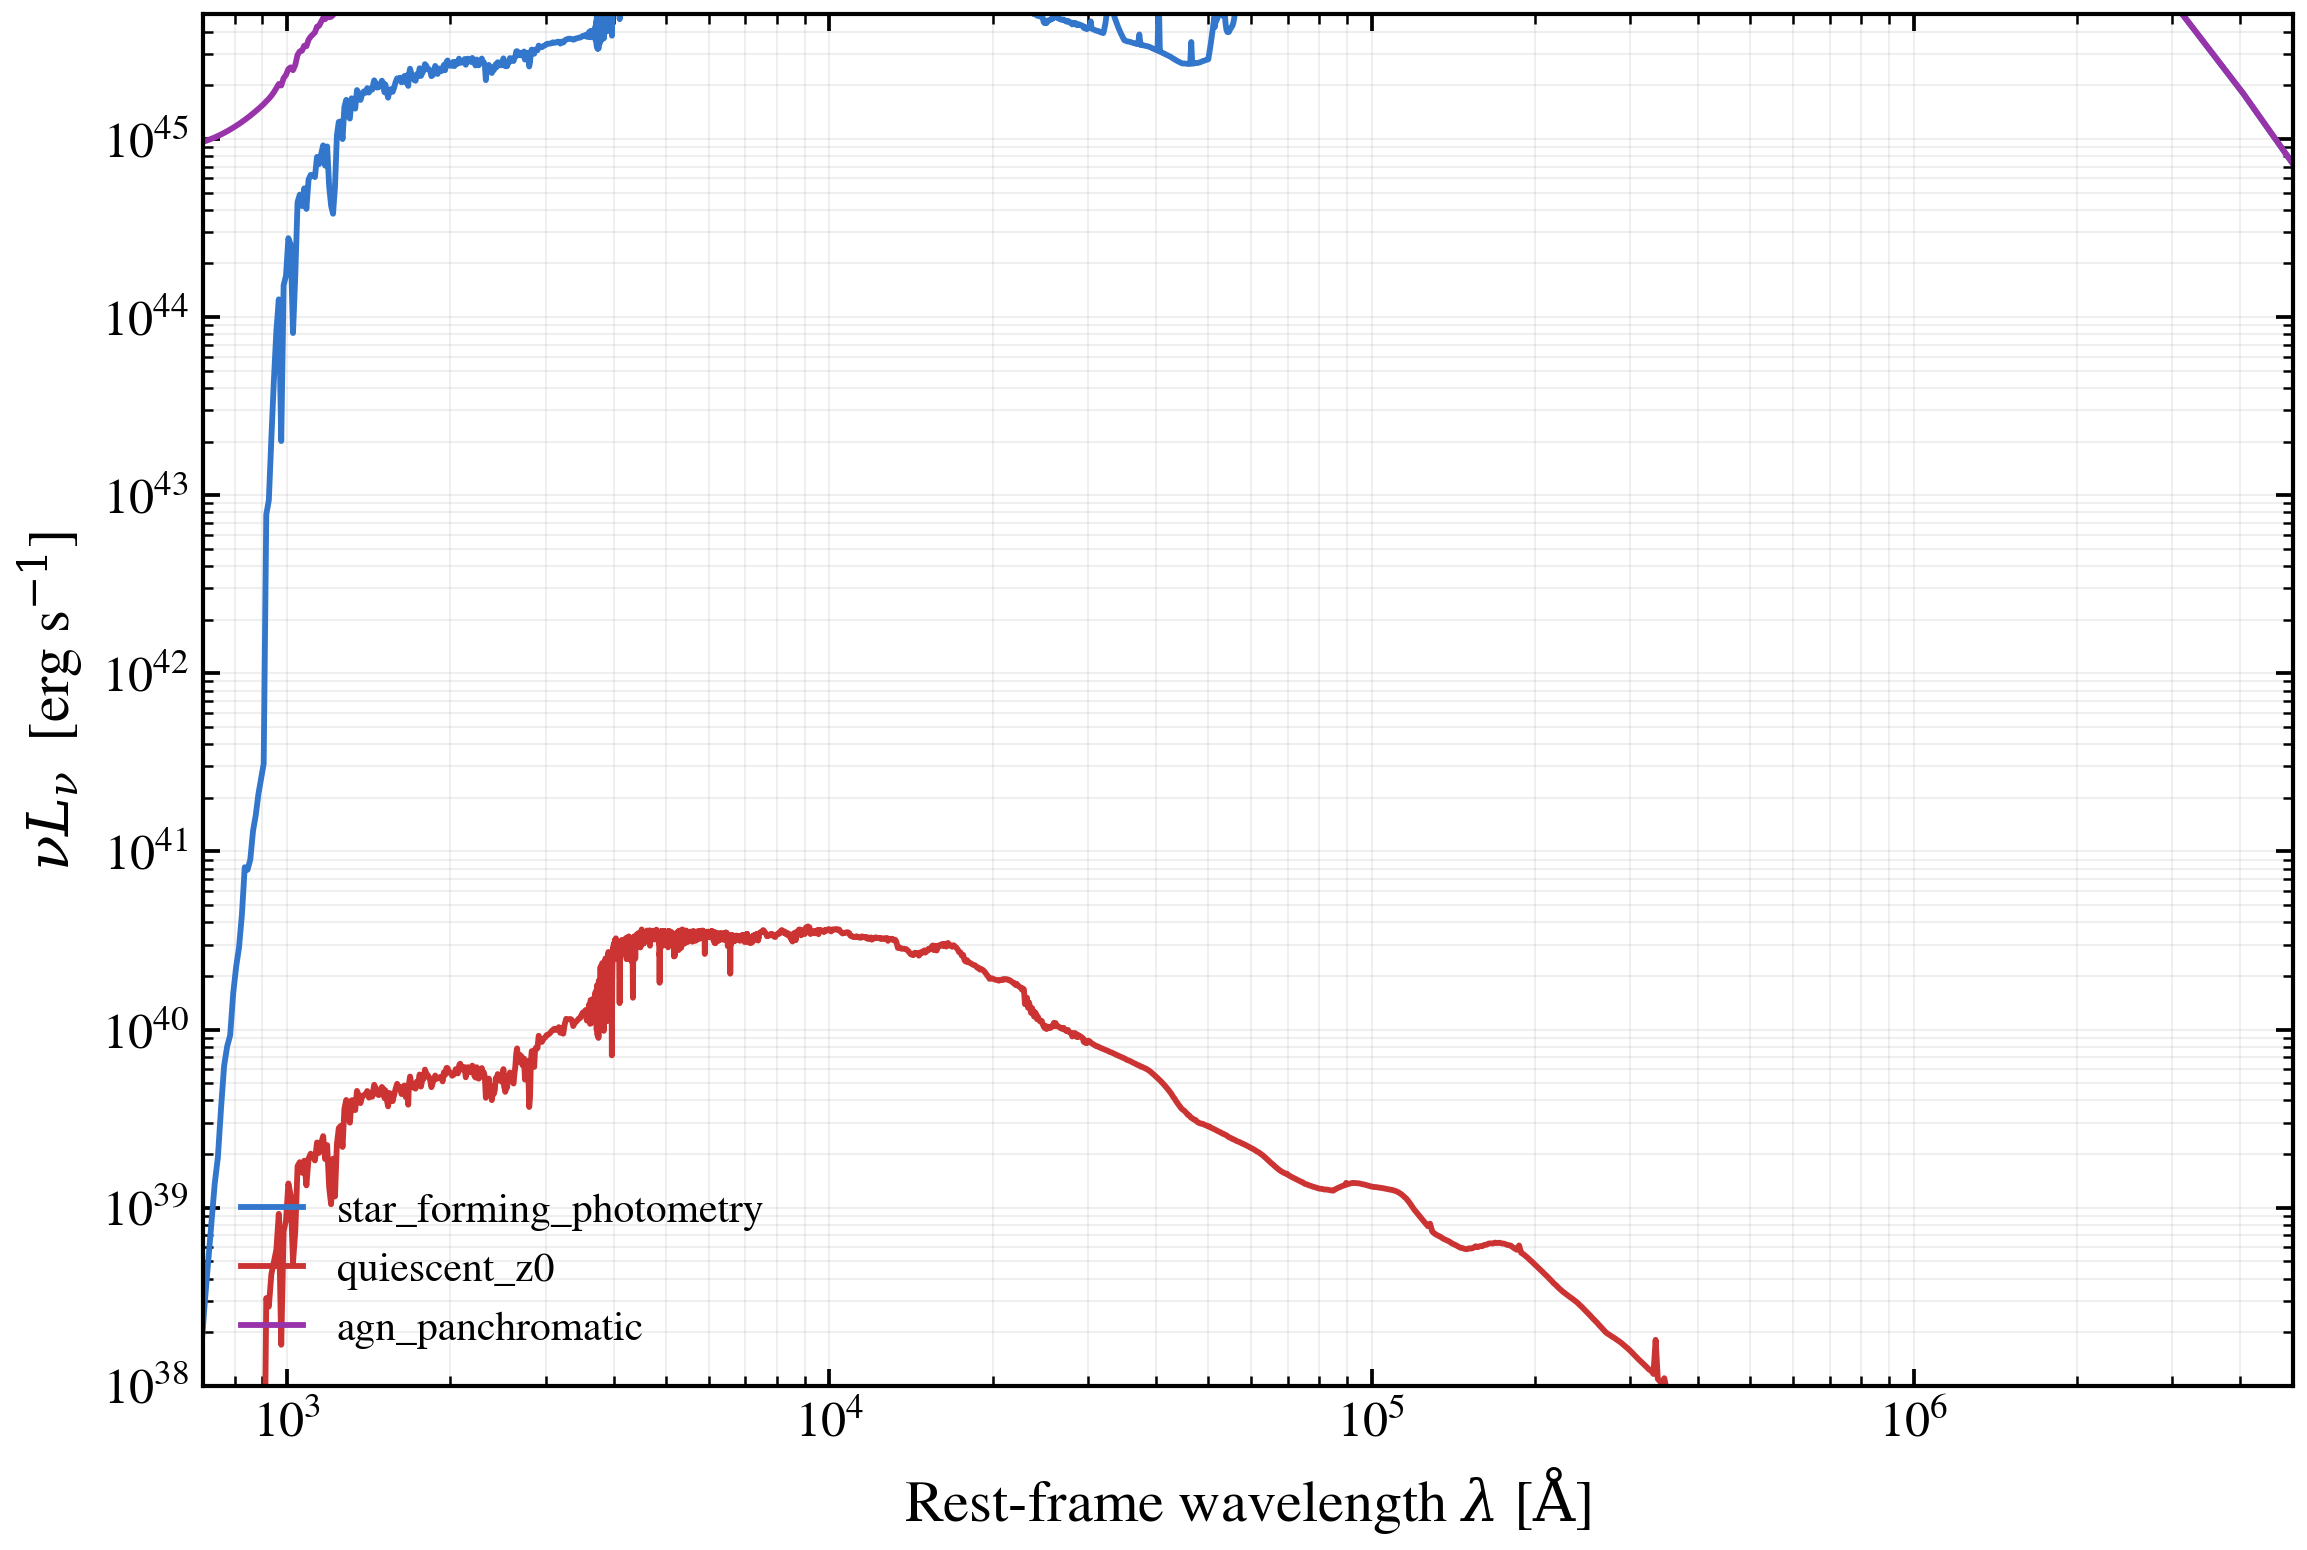
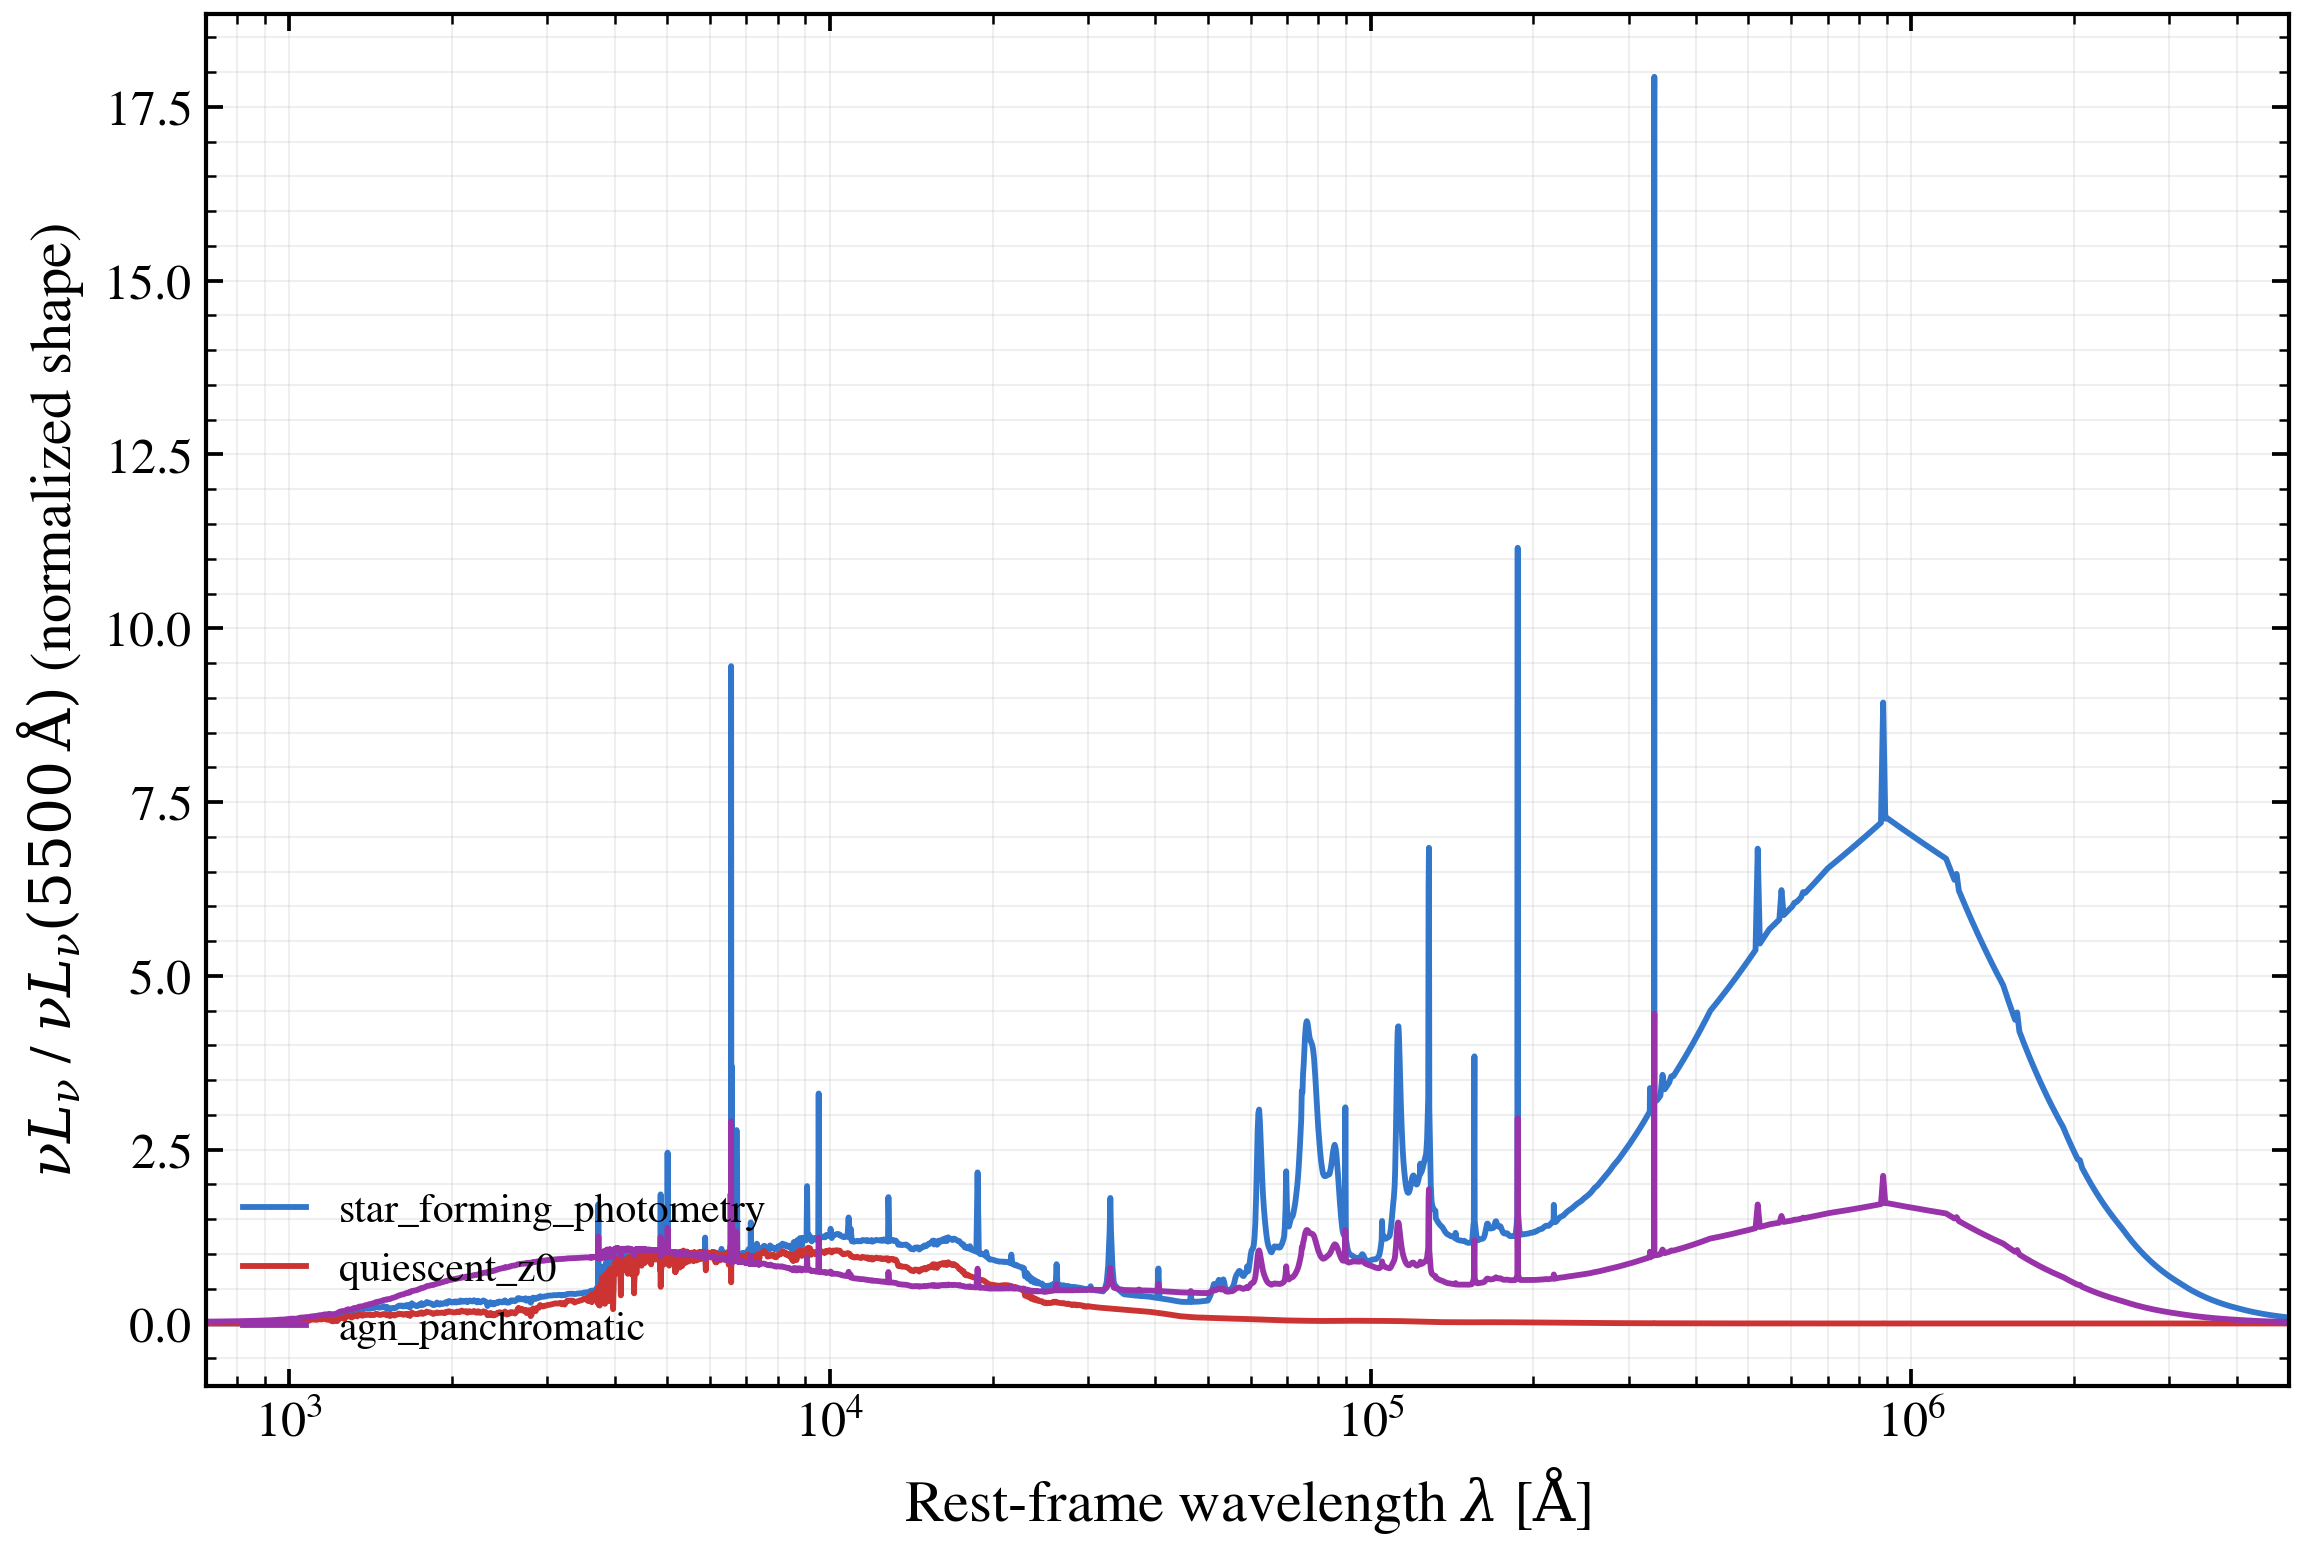
docs(examples): recipe tour compares SED shapes on a common footing — no more clipped curves
Normalized each recipe's SED to its rest-frame value at 5500 Å, allowing morphological differences to be visible without auto-scaling clipping the star-forming and AGN curves. Changed from loglog to semilogx plot to properly scale the normalized amplitude range (0–18). Y-axis label updated to reflect normalization. All three curves now fully visible and pedagogically clear: star-forming shows bright emission lines, quiescent is smooth/flat, AGN intermediate.

diff --git a/docs/auto_examples/recipes/plot_recipe_introspection_tour.py b/docs/auto_examples/recipes/plot_recipe_introspection_tour.py
@@ -8,6 +8,9 @@ a recipe's docstring. Three models showcase the morphological diversity:
 star-forming (DPL+Cue nebular, free z to 6), quiescent at z=0.05 (dexp,
 lower dust ceiling), and AGN-panchromatic (full composite, z to 6).
 All require bare-stellar SSP (Cue backend).
+
+Each SED is normalized to its rest-frame value at 5500 Å to overlay the
+spectral *shapes* and highlight morphological differences across recipe types.
 """
 
 import warnings
@@ -60,7 +63,15 @@ for name, recipe_fn, color in RECIPE_CONFIGS:
     out = model.predict(p)
     wave = np.asarray(model.wavelengths)
     nu_l_nu = C_AA_PER_S / wave * np.asarray(out.rest_sed())
-    ax_seds.loglog(wave, nu_l_nu, color=color, lw=1.4, label=name)
+
+    # Normalize to the value at 5500 Å rest to show morphology shapes
+    i_norm = int(np.argmin(np.abs(wave - 5500.0)))
+    if nu_l_nu[i_norm] > 0:
+        nu_l_nu_norm = nu_l_nu / nu_l_nu[i_norm]
+    else:
+        nu_l_nu_norm = nu_l_nu
+
+    ax_seds.semilogx(wave, nu_l_nu_norm, color=color, lw=1.4, label=name)
     plotted += 1
 
 # Error check: ensure at least one recipe built
@@ -72,9 +83,8 @@ if plotted == 0:
 
 ax_seds.set(
     xlim=(700, 5e6),
-    ylim=(1e38, 5e45),
     xlabel=r"Rest-frame wavelength $\lambda$ [$\mathrm{\AA}$]",
-    ylabel=r"$\nu L_\nu$  [erg s$^{-1}$]",
+    ylabel=r"$\nu L_\nu$ / $\nu L_\nu(5500\,\mathrm{\AA})$ (normalized shape)",
 )
 ax_seds.legend(frameon=False, fontsize=10, loc="lower left")
 ax_seds.grid(True, alpha=0.2, which="both")

diff --git a/examples/recipes/plot_recipe_introspection_tour.py b/examples/recipes/plot_recipe_introspection_tour.py
@@ -8,6 +8,9 @@ a recipe's docstring. Three models showcase the morphological diversity:
 star-forming (DPL+Cue nebular, free z to 6), quiescent at z=0.05 (dexp,
 lower dust ceiling), and AGN-panchromatic (full composite, z to 6).
 All require bare-stellar SSP (Cue backend).
+
+Each SED is normalized to its rest-frame value at 5500 Å to overlay the
+spectral *shapes* and highlight morphological differences across recipe types.
 """
 
 import warnings
@@ -60,7 +63,15 @@ for name, recipe_fn, color in RECIPE_CONFIGS:
     out = model.predict(p)
     wave = np.asarray(model.wavelengths)
     nu_l_nu = C_AA_PER_S / wave * np.asarray(out.rest_sed())
-    ax_seds.loglog(wave, nu_l_nu, color=color, lw=1.4, label=name)
+
+    # Normalize to the value at 5500 Å rest to show morphology shapes
+    i_norm = int(np.argmin(np.abs(wave - 5500.0)))
+    if nu_l_nu[i_norm] > 0:
+        nu_l_nu_norm = nu_l_nu / nu_l_nu[i_norm]
+    else:
+        nu_l_nu_norm = nu_l_nu
+
+    ax_seds.semilogx(wave, nu_l_nu_norm, color=color, lw=1.4, label=name)
     plotted += 1
 
 # Error check: ensure at least one recipe built
@@ -72,9 +83,8 @@ if plotted == 0:
 
 ax_seds.set(
     xlim=(700, 5e6),
-    ylim=(1e38, 5e45),
     xlabel=r"Rest-frame wavelength $\lambda$ [$\mathrm{\AA}$]",
-    ylabel=r"$\nu L_\nu$  [erg s$^{-1}$]",
+    ylabel=r"$\nu L_\nu$ / $\nu L_\nu(5500\,\mathrm{\AA})$ (normalized shape)",
 )
 ax_seds.legend(frameon=False, fontsize=10, loc="lower left")
 ax_seds.grid(True, alpha=0.2, which="both")

diff --git a/docs/auto_examples/recipes/plot_recipe_introspection_tour.rst b/docs/auto_examples/recipes/plot_recipe_introspection_tour.rst
@@ -28,7 +28,10 @@ star-forming (DPL+Cue nebular, free z to 6), quiescent at z=0.05 (dexp,
 lower dust ceiling), and AGN-panchromatic (full composite, z to 6).
 All require bare-stellar SSP (Cue backend).
 
-.. GENERATED FROM PYTHON SOURCE LINES 12-84
+Each SED is normalized to its rest-frame value at 5500 Å to overlay the
+spectral *shapes* and highlight morphological differences across recipe types.
+
+.. GENERATED FROM PYTHON SOURCE LINES 15-94
 
 
 
@@ -137,7 +140,15 @@ All require bare-stellar SSP (Cue backend).
         out = model.predict(p)
         wave = np.asarray(model.wavelengths)
         nu_l_nu = C_AA_PER_S / wave * np.asarray(out.rest_sed())
-        ax_seds.loglog(wave, nu_l_nu, color=color, lw=1.4, label=name)
+
+        # Normalize to the value at 5500 Å rest to show morphology shapes
+        i_norm = int(np.argmin(np.abs(wave - 5500.0)))
+        if nu_l_nu[i_norm] > 0:
+            nu_l_nu_norm = nu_l_nu / nu_l_nu[i_norm]
+        else:
+            nu_l_nu_norm = nu_l_nu
+
+        ax_seds.semilogx(wave, nu_l_nu_norm, color=color, lw=1.4, label=name)
         plotted += 1
 
     # Error check: ensure at least one recipe built
@@ -149,9 +160,8 @@ All require bare-stellar SSP (Cue backend).
 
     ax_seds.set(
         xlim=(700, 5e6),
-        ylim=(1e38, 5e45),
         xlabel=r"Rest-frame wavelength $\lambda$ [$\mathrm{\AA}$]",
-        ylabel=r"$\nu L_\nu$  [erg s$^{-1}$]",
+        ylabel=r"$\nu L_\nu$ / $\nu L_\nu(5500\,\mathrm{\AA})$ (normalized shape)",
     )
     ax_seds.legend(frameon=False, fontsize=10, loc="lower left")
     ax_seds.grid(True, alpha=0.2, which="both")
@@ -162,7 +172,7 @@ All require bare-stellar SSP (Cue backend).
 
 .. rst-class:: sphx-glr-timing
 
-   **Total running time of the script:** (0 minutes 25.002 seconds)
+   **Total running time of the script:** (0 minutes 33.897 seconds)
 
 
 .. _sphx_glr_download_auto_examples_recipes_plot_recipe_introspection_tour.py:
